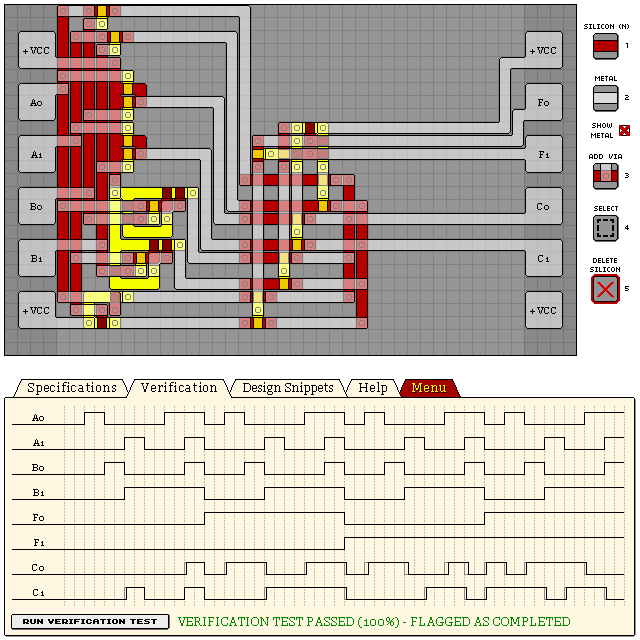
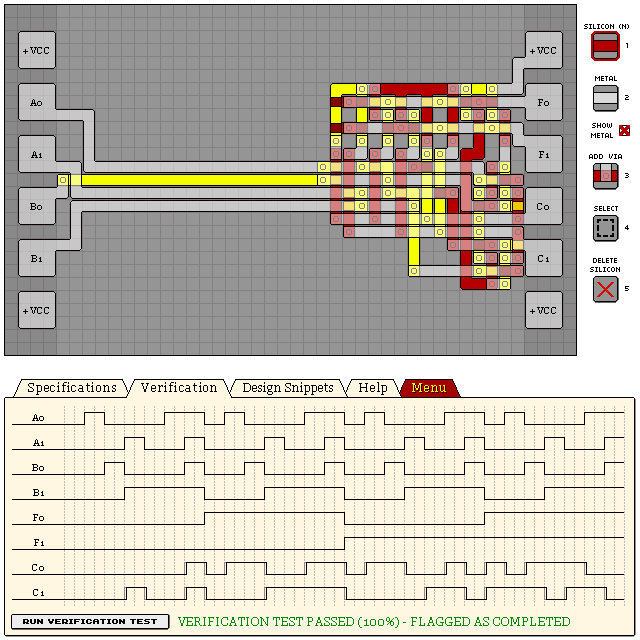
KA181 (615) -> (426)

diff --git a/levels/16 KA181 2-BIT LOGICAL FUNCTION UNIT.md b/levels/16 KA181 2-BIT LOGICAL FUNCTION UNIT.md
@@ -1,29 +1,24 @@
 # KA181 - 2-BIT LOGICAL FUNCTION UNIT
 
-<a href="https://openkonstruktor.natecousins.com/?level=16+KA181+2-BIT+LOGICAL+FUNCTION+UNIT&design=eNrtmVti4yAMRW3d%2FHQN3cL8z1pm%2FxtpayOQQOJhN23sIc6rPVyEDVYk9PjzeH%2F7t779XR%2FLkeNiwrEjszgs7bOYhkjbEYXUbYu21lG4uGIqDiHcz3EJ%2Fa0B7w2kYOVhWtPBZ7QaXQlZex4pDveEcGjlUBzyMiq8x93h4zXOqH6vCNPqzN%2BpLtyv57DF1bSoFoEtJLFa0m239AhTw0LSZ5Ee6%2FHpOCRserlh8f%2Fy2zGFU3gJ4RbOkf%2FYKADzdZZ%2Bvu%2Ffaf8WPokpCAx2CkpaIP6PrST69SUqtg9uEexC9IfUgu2S0m5UjIoHHMfmUWpqQS7lsVkUAVmUHyXVSFD90NRETNNC0b1QTqFaaqoNuJRsu2DrBlVCi5J%2FRm0a5jY8S0rhuhNNalKxWiwaWlj0WR6p5gm7XOX1KBwUL5fNRM%2FJDTftwqUge%2FGQ8qcuveoslA6tU8t3hEG927DZM1SbW672SX%2BC3tRVjlO47g5z8fRQPE17omdgztGkN3CV0KsZeXSHfL1zILYlhlKUQoeUgOtuOVWKCXh5N0HEnCkBp5hoyTPKEnA%2FFmrQExHpLyyeegKuh%2Be6uzKZJTl7ZfpGMQeD5wz9mBP1a1WPOSGe%2FhyVCfh0LNNVvnqKne3OuYmh2v3knTYzAY%2FbXbbLClsdFXqnBLziKgm9tN6z4e7SLqW9D9ZydzMBn%2FTyUaX5UJu3No6Fm0yVFW6KFkjxqqxUCG%2FIYwZHMTATcOXmGpEhXGeIG%2B1VqsINhrTpEgNuz6L%2F%2Fr1KqB%2BrAz8N5Zp0%2BXQs01WerShBFnVjOpwq4EStCngW5bGrlKUX%2BdduN6uAyyRaFKcFJTsibde4ya1iS3dp1rgbWiJUe7aoimjtGDuvgBuhMEZLM%2Bh3pE692KFJe6gC3qCzxv2LFNUtFIi9me%2BsgD%2FZVdqv8%2FQlkkrK90i%2F1W415qxrATciBbzUXkXZen8VObOi91rkXz1fI%2FLvvlaZAYsenIVs0DNSeiFqrKlMC7yMR%2FoAHkXLdQ%3D%3D" target="_blank">View in Open-Konstruktor</a>
+<a href="https://openkonstruktor.natecousins.com/?level=16+KA181+2-BIT+LOGICAL+FUNCTION+UNIT&design=eNrtWltywzAItNj89Ay9Qv97lt7%2FIp36IQkESHacZBpjj2eSWS0IR1qDye3r9vnxkz6%2B0206cr4NkYIYxCAG8WlE2kOkfKbqHCL%2BfV8ul2p7nNaLxqZa7O%2BcamIendujezwQY6o8JRaz8G55TBbBi3GqIjSptkf9e%2Bd3nJqb09C1lVMGkThTf%2BXwn2bqe6xXT22kuUn%2Bfkz2MrhEnjOnc2QfMwpAve5HlwO0jFs%2BFb8MxTKiQbFYlHMuR6CXRmGjYlXVKGazHM4oMqajcLiFaaGjXChzLrsBVkQqiooLBZ052whtzvKG6NwNZiigo2Wy6%2BSeqEiaEg5JZaCBBhrotdGQykCvic7pEcs4Fa6RkYLgWq7ro9ZylyuGjHPh%2BvUsY2RWnYigVoVQ4pJcGyXH8mWlErGFAz0f9cQQUtREuSrWZSkbcz2rWS6KpVtWNJq9ULL95mnBEpb7ImK6JSNyhBS5hqe2AF8L%2Fq2S1iOyUHIsh1QGGuiJqCWVcPOoDfXfkZpcH4Wd3YE66IDlI379HcrbCATV8qrhwK5MmD1dXi2GUYAHGqiy%2FXm3QOGaTR%2FBUoXFtgx0ZNZuNuUErhpwakRmG6vpzIjWak7%2BjAcH2HNL3g0TrdPKfyGVJ%2FW4ye1x8weQQCm6uoEeQ9FDj3XAG90Z7mKfwLV73HS8A77Jltnj3tRYf8%2FZ6YBT%2FU%2BVJiPVSmxU7yghlOExPe5TpFK%2F7kd3lFH64tGe8JFHBTqE4u24D50VvOIdx%2F0a%2B5eV%2FXiBIvHjF4LAyh8%3D" target="_blank">View in Open-Konstruktor</a>
 
 - Verification: Passed (100%)
-- Design Score: 615
+- Design Score: 426
 
 ```
[17 lines of base64/hex data omitted]
-HkrpjVBjTSku8DYR6R8OAMvv
[12 lines of base64/hex data omitted]
+IvHjF4LAyh8=
 ```
 
 ![16 KA181 2-BIT LOGICAL FUNCTION UNIT](./assets/16.png)
